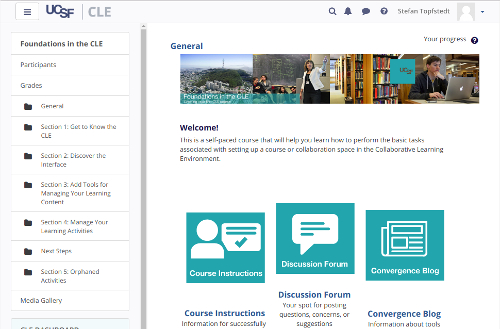
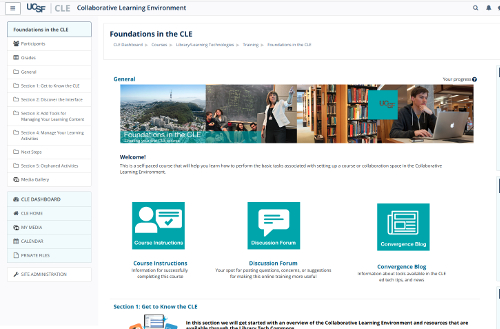
updated screenshot.

diff --git a/version.php b/version.php
@@ -24,7 +24,7 @@
 
 defined('MOODLE_INTERNAL') || die();
 
-$plugin->version   = 2018121102;
+$plugin->version   = 2018121103;
 $plugin->requires  = 2018050800;
 $plugin->component = 'theme_ucsf';
 
